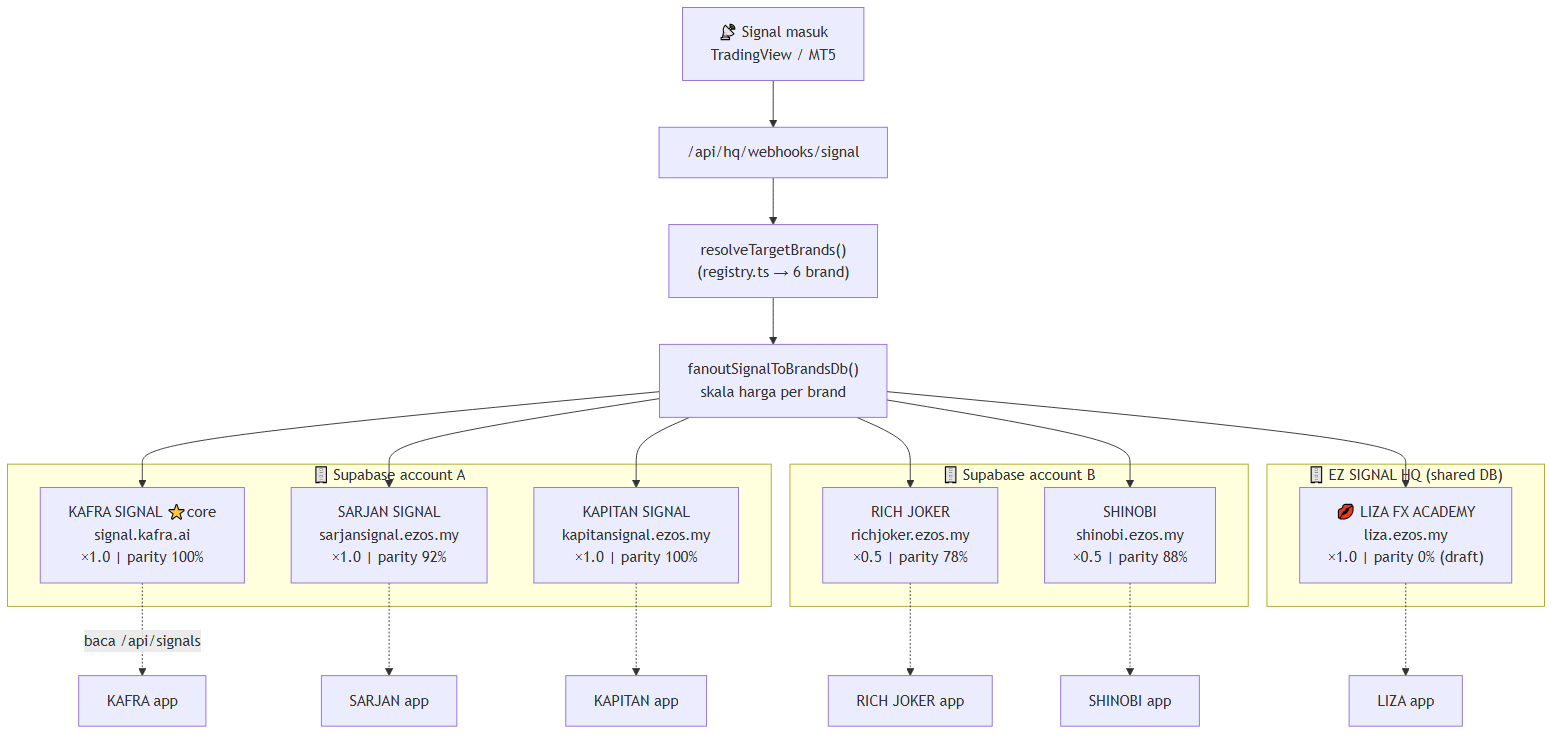
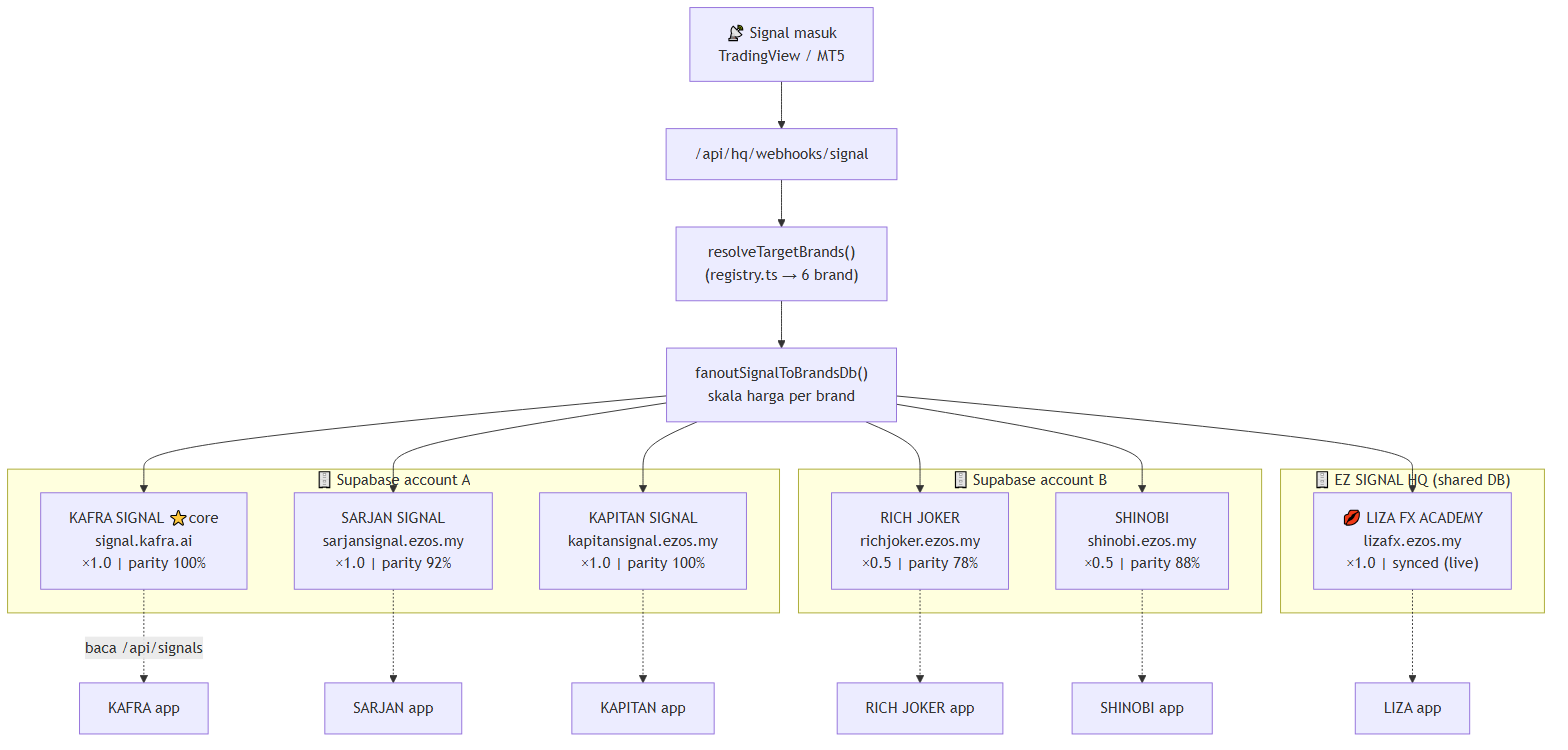
chore(hq): LIZA live — domain lizafx.ezos.my, vercel project lizafx, status synced
- registry: domain liza.ezos.my -> lizafx.ezos.my, vercelProject (TBC) -> lizafx,
  status draft -> synced
- health-check script + rollout/draft/playbook SQL: domain -> lizafx.ezos.my
  (re-run rollout Section A to update the existing brands row via on-conflict)
- PROJECTS.md + architecture diagrams (md + re-rendered PNGs) updated

diff --git a/src/lib/registry.ts b/src/lib/registry.ts
@@ -174,13 +174,13 @@ export const brands: BrandRegistryItem[] = [
     displayName: "LIZA FX ACADEMY",
     canonicalName: "LIZA FX ACADEMY",
     role: "White label",
-    domain: "liza.ezos.my",
+    domain: "lizafx.ezos.my",
     github: "lizafx/lizafx",
-    vercelProject: "(TBC)",
+    vercelProject: "lizafx",
     localFolder: "LIZA",
     supabaseGroup: "EZ SIGNAL HQ (shared)",
     accent: "#f9a8d4",
-    status: "draft",
+    status: "synced",
     parity: 0,
     activeUsers: 0,
     expiredUsers: 0,

diff --git a/docs/HQ-ARCHITECTURE-DIAGRAM.md b/docs/HQ-ARCHITECTURE-DIAGRAM.md
@@ -155,7 +155,7 @@ flowchart LR
 
 ```mermaid
 flowchart TB
-    HQ["EZ SIGNAL HQ"] -->|registry-driven, auto-include| LIZA["LIZA FX ACADEMY<br/>brand_id = liza<br/>liza.ezos.my"]
+    HQ["EZ SIGNAL HQ"] -->|registry-driven, auto-include| LIZA["LIZA FX ACADEMY<br/>brand_id = liza<br/>lizafx.ezos.my"]
     HQ --> OTHERS["5 brand lain<br/>(kafra, sarjan, kapitan, richjoker, shinobi)"]
     LIZA -->|baca| DB[("signals / performance_logs<br/>WHERE brand_id = 'liza'")]
     OTHERS --> DB
@@ -301,7 +301,7 @@ flowchart TB
     end
 
     subgraph SHARED["🗄 EZ SIGNAL HQ (shared DB)"]
-        LZ["💋 LIZA FX ACADEMY<br/>liza.ezos.my<br/>×1.0 | parity 0% (draft)"]
+        LZ["💋 LIZA FX ACADEMY<br/>lizafx.ezos.my<br/>×1.0 | synced (live)"]
     end
 
     K -.->|baca /api/signals| KAPP["KAFRA app"]
@@ -321,6 +321,6 @@ flowchart TB
 | **KAPITAN SIGNAL** | kapitansignal.ezos.my | White label | Account A | 1.0 | `#f5c542` | synced / 100% |
 | **RICH JOKER** | richjoker.ezos.my | White label | Account B | **0.5** | `#f59e0b` | watch / 78% |
 | **SHINOBI** | shinobi.ezos.my | White label | Account B | **0.5** | `#d4af37` | synced / 88% |
-| **LIZA FX ACADEMY** | liza.ezos.my | White label | **Shared HQ** | 1.0 | `#f9a8d4` | draft / 0% |
+| **LIZA FX ACADEMY** | lizafx.ezos.my | White label | **Shared HQ** | 1.0 | `#f9a8d4` | synced / live |
 
 > **Nota price multiplier:** RICH JOKER & SHINOBI guna ×0.5 (jarak harga entry/SL/TP dikecilkan separuh) — boleh override per brand via env `HQ_BRAND_<ID>_PRICE_DISTANCE_MULTIPLIER`. Brand lain default ×1.0.

diff --git a/docs/PROJECTS.md b/docs/PROJECTS.md
@@ -9,7 +9,7 @@ This file is a working registry for the six EZ SIGNAL distributions.
 | RICH JOKER | RICH JOKER INDI | RICH JOKER INDI | White label | richjokerindi/richjokerindi | richjoker | richjoker.ezos.my | EZ SIGNAL HQ (shared) |
 | SHINOBI | SHINOBI INDI | SHINOBI INDI | White label | shinobiindi/shinobiindi | shinobi | shinobi.ezos.my | EZ SIGNAL HQ (shared) |
 | KAPITAN SIGNAL | KAPITAN SIGNAL | KAPITAN SIGNAL | White label | kapitansignal/kapitansignal | kapitansignal | kapitansignal.ezos.my | EZ SIGNAL HQ (shared) |
-| LIZA FX ACADEMY | LIZA FX ACADEMY | LIZA | White label | lizafx/lizafx | (TBC) | liza.ezos.my | EZ SIGNAL HQ (shared) |
+| LIZA FX ACADEMY | LIZA FX ACADEMY | LIZA | White label | lizafx/lizafx | lizafx | lizafx.ezos.my | EZ SIGNAL HQ (shared) |
 
 ## HQ Rules
 
